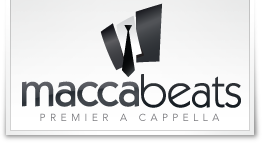
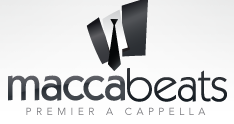
rounded edges

Changed region(s): [[0.0, 0.0, 0.9872, 0.9677], [0.9274, 0.0, 0.9573, 0.3387]]

diff --git a/index.html b/index.html
@@ -75,12 +75,13 @@
 
     <section id="customers">
       <div>
-        <h3>Who we work with:</h3>
+        <h3>Trusted by leading educators, creators, and idea-driven brands:</h3>
         <div>
           <img src="icons/zibby.png" alt="zibbymedia">
           <img src="icons/livinglchaim.png" alt="livinglchaim">
           <img id="toi" src="icons/toi.png" alt="timesofisrael">
           <img src="icons/opendor.png" alt="opendormedia">
+          <img src="icons/unpacked.jpg" alt="unpacked">
           <img src="icons//maccabeats.png" alt="maccabeats">
         </div>
       </div>

diff --git a/style.css b/style.css
@@ -705,19 +705,18 @@ h4{
   display: flex;
   flex-direction: row;
   flex-wrap: wrap;
-  width: 60vw;
+  width: 90vw;
   justify-content: center;
   align-items: center;
 }
 
-#toi  {
-  height: 2vw !important;
-}
+
 
 #customers div img {
   /* width: 12vw; */
-  height: 10vw;
+  height: 8vw;
   margin: 2vw;
+  border-radius: var(--border-radius);
 }
 
 
